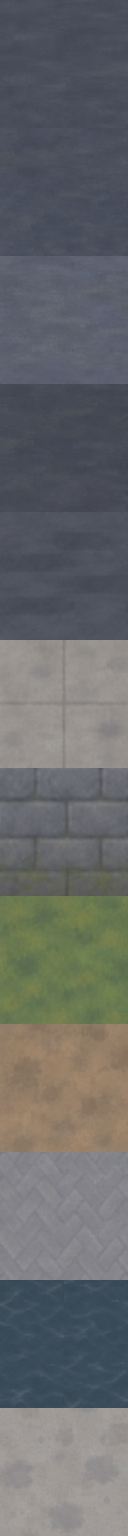
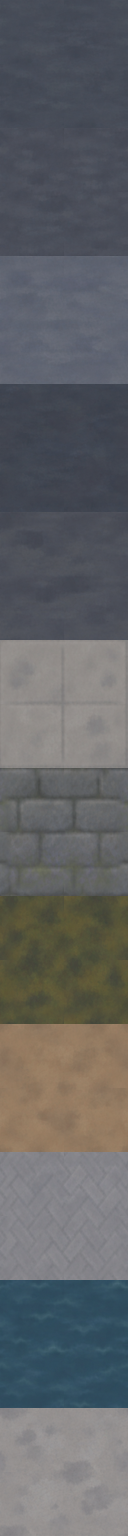
Open World: new ground tile sheet, darker olive grass, rolling park hills with dirt on slopes, trees/collision follow the hills

diff --git a/src/world/citylite.js b/src/world/citylite.js
@@ -215,6 +215,47 @@ export async function buildCity({ scene, renderer }) {
   meshLayer('lot', LY.CONC, CH);
   meshLayer('plaza', LY.PAVE, CH);
   meshLayer('park', LY.GRASS, CH + 0.02);
+  // ---- rolling park ground (Spider Fuser style mounds): a raster-aligned heightfield over the park cells, always >= the flat park layer, fading
+  // to flat toward the park edge so it meets the sidewalk. The same heights drive collision (terrainHeight) and where the trees stand.
+  const PARK_Y = CH + 0.02, HILL_LIFT = 0.03, HILL_A = 6.0, HILL_FADE = 18;
+  const vnoise = (x, z) => {
+    const ix = Math.floor(x), iz = Math.floor(z), fx = x - ix, fz = z - iz, sx = fx * fx * (3 - 2 * fx), sz = fz * fz * (3 - 2 * fz);
+    const a = hash2(ix, iz), b = hash2(ix + 1, iz), c = hash2(ix, iz + 1), d = hash2(ix + 1, iz + 1);
+    return (a + (b - a) * sx) * (1 - sz) + (c + (d - c) * sx) * sz;
+  };
+  const hillRaw = (x, z) => 0.40 * vnoise(x / 30 + 3.1, z / 30 + 7.7) + 0.35 * vnoise(x / 14 + 11.3, z / 14 + 2.9) + 0.25 * vnoise(x / 7 + 5.5, z / 7 + 13.1);
+  const HILLW = NX + 1, HILLV = new Float32Array(HILLW * (NZ + 1));
+  { // distance (m) from every park cell to the nearest non-park cell: two-pass chamfer
+    const D = new Float32Array(NX * NZ), BIG = 1e6, d1 = CELL, d2 = CELL * Math.SQRT2;
+    for (let k = 0; k < D.length; k++) D[k] = GRID[k] === CLS.PARK ? BIG : 0;
+    const at = (i, j) => (i < 0 || j < 0 || i >= NX || j >= NZ ? 0 : D[j * NX + i]);
+    for (let j = 0; j < NZ; j++) for (let i = 0; i < NX; i++) { const k = j * NX + i; if (!D[k]) continue; D[k] = Math.min(D[k], at(i - 1, j) + d1, at(i, j - 1) + d1, at(i - 1, j - 1) + d2, at(i + 1, j - 1) + d2); }
+    for (let j = NZ - 1; j >= 0; j--) for (let i = NX - 1; i >= 0; i--) { const k = j * NX + i; if (!D[k]) continue; D[k] = Math.min(D[k], at(i + 1, j) + d1, at(i, j + 1) + d1, at(i + 1, j + 1) + d2, at(i - 1, j + 1) + d2); }
+    for (let j = 0; j <= NZ; j++) for (let i = 0; i <= NX; i++) {
+      const c4 = [at(i - 1, j - 1), at(i, j - 1), at(i - 1, j), at(i, j)]; // corner heights: only corners that touch park cells, faded by the nearest non-park cell
+      if (!(c4[0] || c4[1] || c4[2] || c4[3])) continue;
+      const dm = Math.min(...c4), f = Math.min(1, dm / HILL_FADE), fs = f * f * (3 - 2 * f);
+      HILLV[j * HILLW + i] = HILL_A * fs * Math.max(0, hillRaw(X0 + i * CELL, Z0 + j * CELL) - 0.2);
+    }
+  }
+  const hillAt = (x, z) => { // bilinear over the corner heights
+    const u = (x - X0) / CELL, v = (z - Z0) / CELL, i = Math.floor(u), j = Math.floor(v), fu = u - i, fv = v - j;
+    if (i < 0 || j < 0 || i >= NX || j >= NZ) return 0;
+    const k = j * HILLW + i; return (HILLV[k] * (1 - fu) + HILLV[k + 1] * fu) * (1 - fv) + (HILLV[k + HILLW] * (1 - fu) + HILLV[k + HILLW + 1] * fu) * fv;
+  };
+  const parkTop = (x, z) => PARK_Y + HILL_LIFT + hillAt(x, z);
+  { const gb = new GB(), f = W(14), hv = (i, j) => HILLV[Math.max(0, Math.min(NZ, j)) * HILLW + Math.max(0, Math.min(NX, i))];
+    const vtx = (i, j) => {
+      const x = X0 + i * CELL, z = Z0 + j * CELL, nx = -(hv(i + 1, j) - hv(i - 1, j)) / (2 * CELL), nz = -(hv(i, j + 1) - hv(i, j - 1)) / (2 * CELL), q = Math.hypot(nx, 1, nz);
+      gb.p.push(x, PARK_Y + HILL_LIFT + hv(i, j), z); gb.n.push(nx / q, 1 / q, nz / q);
+      if (TEX) { const t = f(x, z); gb.u.push(LY.GRASS, 0); gb.c.push(t[0], t[1], 0); } else { gb.u.push(99, 0); gb.c.push(C.grass[0], C.grass[1], C.grass[2]); }
+    };
+    for (let j = 0; j < NZ; j++) for (let i = 0; i < NX; i++) {
+      if (GRID[j * NX + i] !== CLS.PARK) continue;
+      for (const k of [[i, j + 1], [i + 1, j + 1], [i + 1, j], [i, j + 1], [i + 1, j], [i, j]]) vtx(k[0], k[1]);
+    }
+    if (!gb.empty) { const m = new THREE.Mesh(gb.build(), matGround); m.receiveShadow = true; m.name = 'park-hills'; root.add(m); }
+  }
   // vertical walls along smooth polylines (outside on the right of travel): kerbs between road and block, sea wall between land and water
   // run > 0 turns the vertical wall into a slope: the top edge stays on the land edge (y1), the bottom edge sits `run` metres out into the water (y0)
   const wallLines = (key, y0, y1, layer, sc, run = 0) => {
@@ -338,8 +379,9 @@ export async function buildCity({ scene, renderer }) {
   skinTree(matTree, skin);
   const inFootprint = (x, z, pad) => footprints.some(f => x > f.x0 - pad && x < f.x1 + pad && z > f.z0 - pad && z < f.z1 + pad);
   const addTree = (x, z, s) => {
-    const ch = chunkOf(x, z); ch.trees.push([x, z, s, hash2(x * 7, z * 3)]);
-    solids.cyl(x, z, 0, 3.4 * s, 0.3 * s, 0.3 * s, 'trunk');
+    const ty = cellAt(x, z) === CLS.PARK ? parkTop(x, z) - 0.1 : 0; // park trees stand on the hills
+    const ch = chunkOf(x, z); ch.trees.push([x, z, s, hash2(x * 7, z * 3), ty]);
+    solids.cyl(x, z, ty, ty + 3.4 * s, 0.3 * s, 0.3 * s, 'trunk');
   };
   { const rnd = mulberry32(0x7EE);
     for (const P of PARKS) for (let x = P[0] + 8; x < P[2] - 6; x += 15) for (let z = P[1] + 8; z < P[3] - 6; z += 15) if (rnd() < 0.75) addTree(x + (rnd() - 0.5) * 9, z + (rnd() - 0.5) * 9, 0.8 + rnd() * 0.7);
@@ -354,8 +396,8 @@ export async function buildCity({ scene, renderer }) {
   for (const ch of chunks.values()) {
     const n = ch.trees.length; if (!n) continue;
     const im = new THREE.InstancedMesh(treeGeo, matTree, n); im.name = 'trees-open-' + ch.cx + '_' + ch.cz;
-    ch.trees.forEach(([x, z, s, h], i) => {
-      _q.setFromAxisAngle(new THREE.Vector3(0, 1, 0), h * 6.28); _s.set(s, s * (0.9 + h * 0.3), s); _p.set(x, 0, z);
+    ch.trees.forEach(([x, z, s, h, ty], i) => {
+      _q.setFromAxisAngle(new THREE.Vector3(0, 1, 0), h * 6.28); _s.set(s, s * (0.9 + h * 0.3), s); _p.set(x, ty, z);
       im.setMatrixAt(i, _m.compose(_p, _q, _s)); im.setColorAt(i, _c.setRGB(0.85 + h * 0.3, 0.9 + (h * 7 % 1) * 0.2, 0.85 + h * 0.2));
     });
     im.instanceMatrix.needsUpdate = true; if (im.instanceColor) im.instanceColor.needsUpdate = true;
@@ -452,7 +494,7 @@ export async function buildCity({ scene, renderer }) {
     const c = cellAt(x, z);
     if (c < 0) { const e = x < X0 ? EXITS.W : EXITS.E; if (Math.abs(x) >= 2600) return SEABED; const dz = Math.abs(z - e.z) - e.half; return dz < 0 ? 0 : slopeH(0, dz); }
     if (c >= CLS.AV && c <= CLS.INT) return 0;
-    if (c !== CLS.OUT) return c === CLS.PARK ? CH + 0.02 : CH;
+    if (c !== CLS.OUT) return c === CLS.PARK ? parkTop(x, z) : CH;
     return slopeH(CH, seaDist(x, z));
   };
   const grid = new CollisionGrid(solids, 24);

diff --git a/src/world/openskin.js b/src/world/openskin.js
@@ -43,14 +43,22 @@ export function skinGround(mat, skin) {
   mat.onBeforeCompile = (sh) => {
     sh.uniforms.uGT = { value: skin.ground.tex };
     sh.vertexShader = sh.vertexShader
-      .replace('#include <common>', '#include <common>\nvarying float vSurf;')
-      .replace('#include <begin_vertex>', '#include <begin_vertex>\nvSurf = uv.x;');
+      .replace('#include <common>', '#include <common>\nvarying float vSurf; varying float vUpN;')
+      .replace('#include <begin_vertex>', '#include <begin_vertex>\nvSurf = uv.x; vUpN = normal.y;');
     sh.fragmentShader = sh.fragmentShader
-      .replace('#include <common>', '#include <common>\nuniform highp sampler2DArray uGT; varying float vSurf;')
+      .replace('#include <common>', '#include <common>\nuniform highp sampler2DArray uGT; varying float vSurf; varying float vUpN;')
       .replace('#include <color_fragment>', `#include <color_fragment>
-  if (vSurf < 50.0) diffuseColor.rgb = texture(uGT, vec3(vColor.xy, floor(vSurf + 0.5))).rgb;`);
+  if (vSurf < 50.0) {
+    float L = floor(vSurf + 0.5);
+    vec3 tc = texture(uGT, vec3(vColor.xy, L)).rgb;
+    if (L > 6.5 && L < 7.5) { // grass: steep slopes of the park mounds wear through to dirt
+      float sl = smoothstep(0.995, 0.96, vUpN);
+      if (sl > 0.0) tc = mix(tc, texture(uGT, vec3(vColor.xy * 0.83 + 0.31, 8.0)).rgb, sl);
+    }
+    diffuseColor.rgb = tc;
+  }`);
   };
-  mat.customProgramCacheKey = () => 'openSkinGround2';
+  mat.customProgramCacheKey = () => 'openSkinGround3';
 }
 
 // roofs: every upward-facing face of the facade / glass materials; one of 4 roof types per 48 m cell
